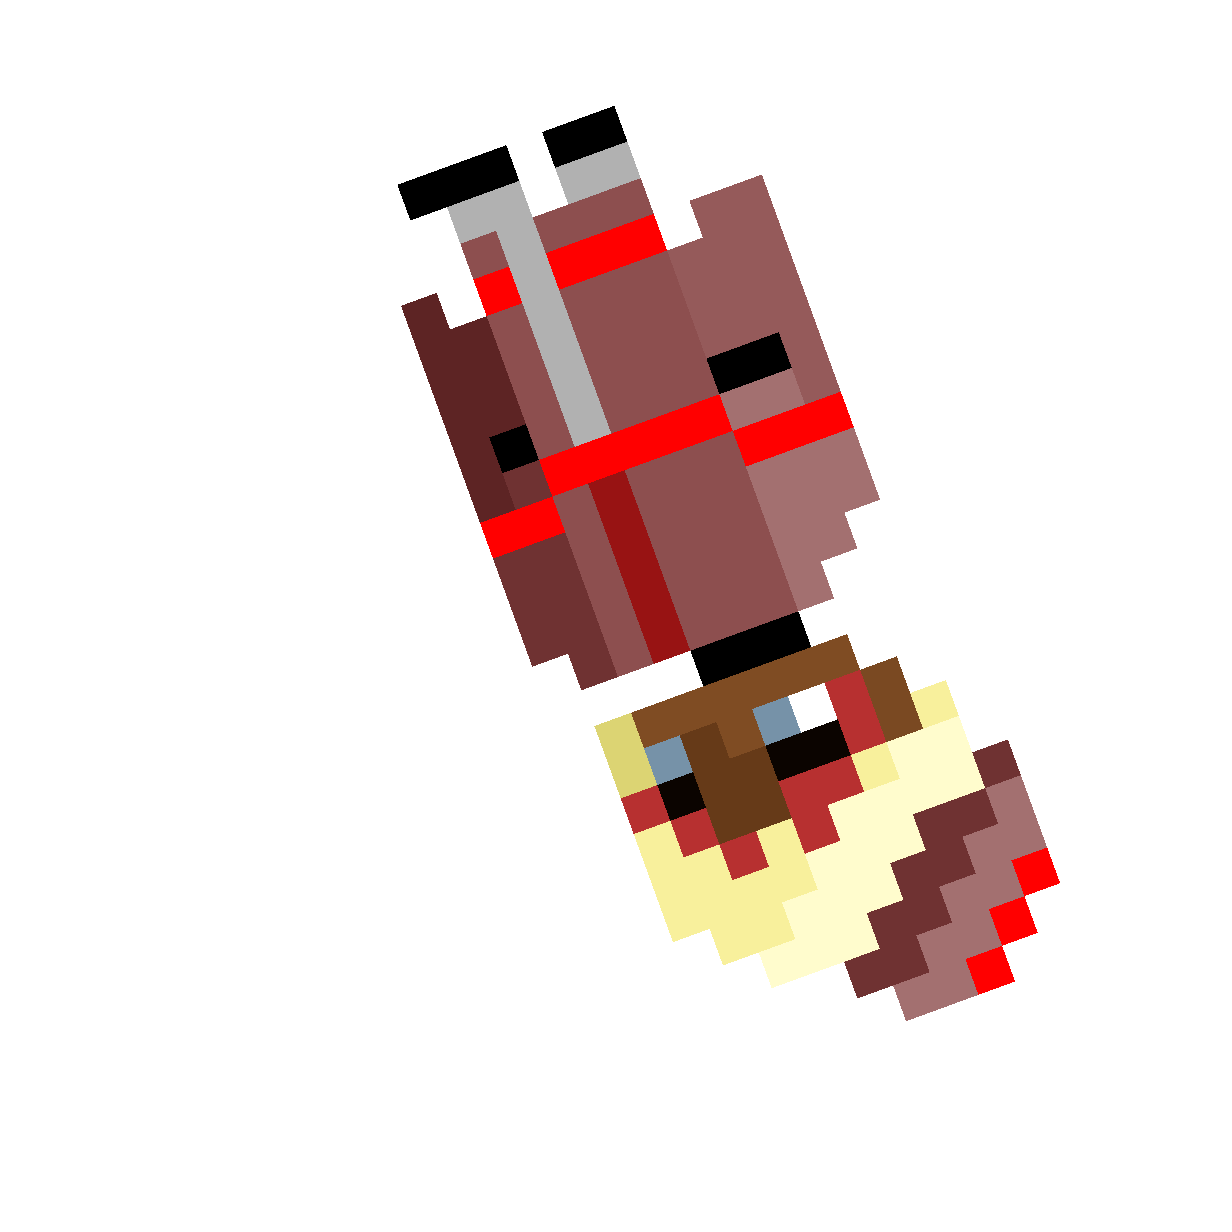
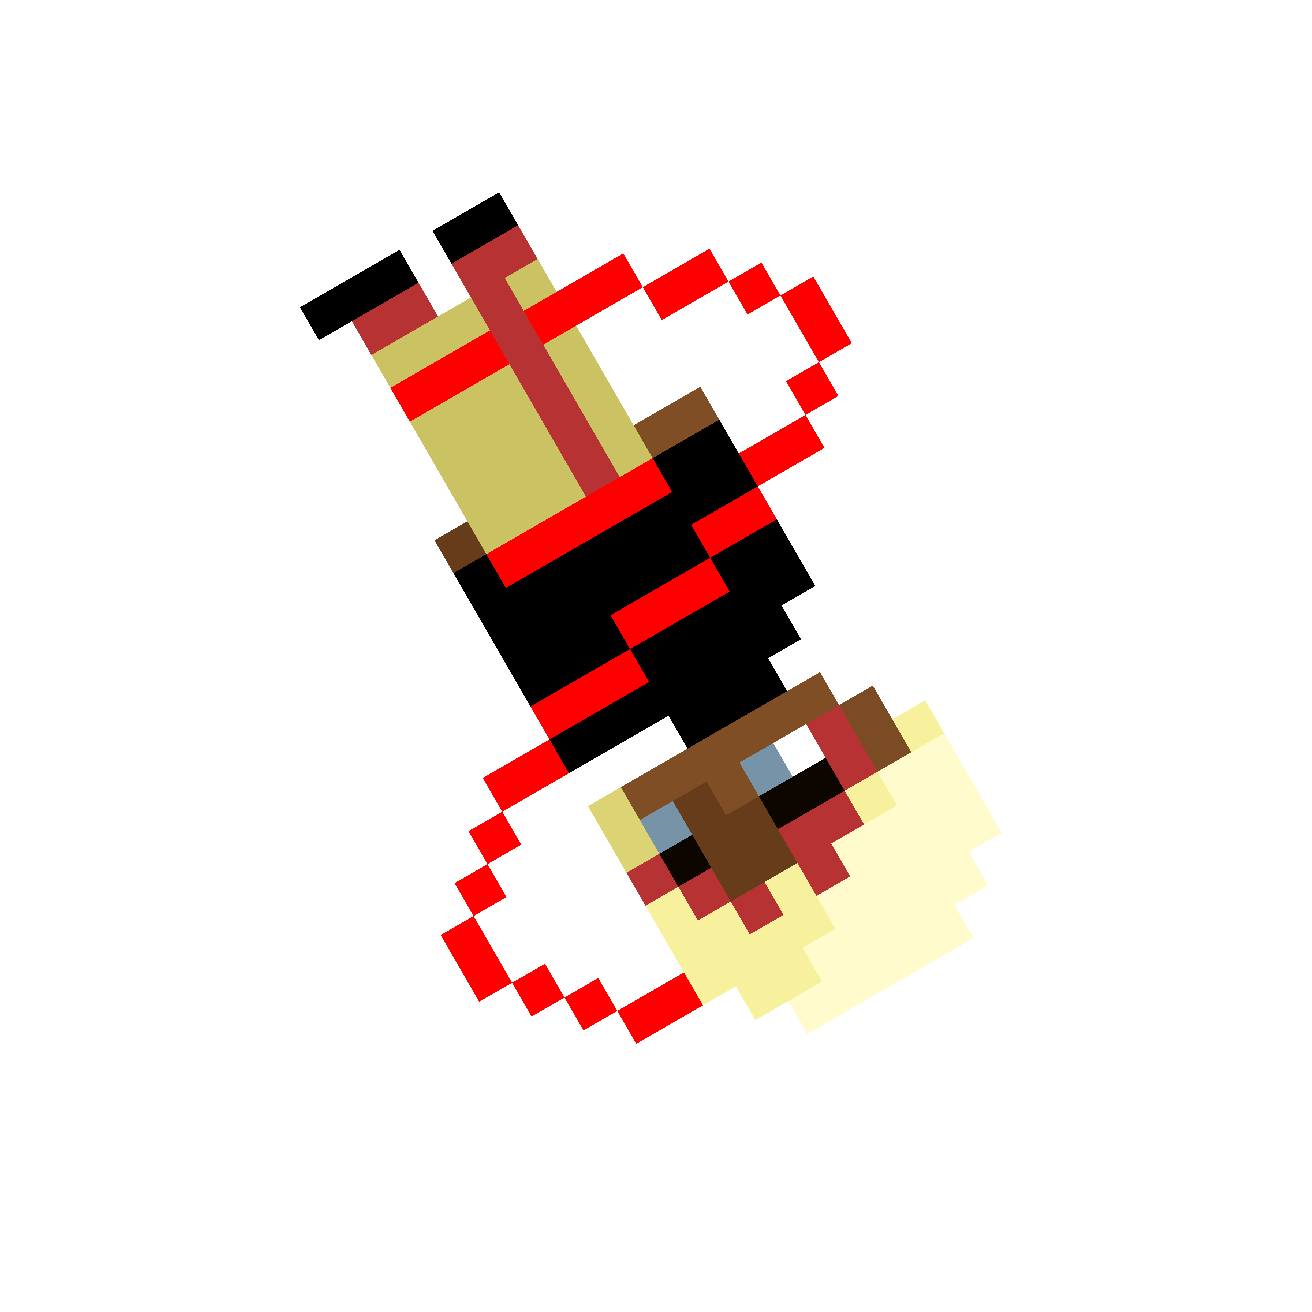
Fix name input and mirror

Changed region(s): [[0.2159, 0.0925, 0.8636, 0.8328]]

diff --git a/frontend/src/components/MirrorComponent.tsx b/frontend/src/components/MirrorComponent.tsx
@@ -1,6 +1,5 @@
 import React, {useState} from "react";
 import styled from "styled-components";
-import Parallelogram from "./styled/Parallelogram.tsx";
 import Triangle from "./styled/Triangle.tsx";
 import CharacterSelectComponent from "./CharacterSelectComponent.tsx";
 import {motion} from "framer-motion";
@@ -64,36 +63,16 @@ const MirrorComponent: React.FC<MirrorProps> = ({selectCharacter}) => {
                 animate={{ opacity: 1 }}
                 exit={{ opacity: 0, transition: { duration: 1 } }}
                 transition={{ duration: 0.3 }}>
-                    <Parallelogram
-                        top={-180} left={-75}
-                        width={125} height={90}
-                        skew={50} rotate={50}
-                        background={debug ? "red" : colors.primary}/>
-                    <Parallelogram
-                        top={-110} left={40}
-                        width={150} height={90}
-                        skew={50} rotate={110}
-                        background={debug ? "gray" : colors.secondary}/>
-                    <Parallelogram
-                        top={80} left={-60}
-                        width={150} height={100}
-                        skew={50} rotate={110}
-                        background={debug ? "white" : colors.primary}/>
-                    <Parallelogram
-                        top={-50} left={-260}
-                        width={200} height={80}
-                        skew={60} rotate={0}
-                        background={debug ? "blue" : colors.primary}/>
                     <Triangle
-                        top={-210} left={-150}
-                        bleft={50} bright={50}
-                        bbottom={250} rotate={126}
+                        top={-220} left={-240}
+                        bleft={120} bright={120}
+                        bbottom={300} rotate={126}
                         background={debug ? "green" : colors.secondary}
                         character='Doctor' selectCharacter={viewCharacter}/>
                     <Triangle
-                        top={-300} left={-180}
-                        bleft={75} bright={75}
-                        bbottom={150} rotate={155}
+                        top={-190} left={-50}
+                        bleft={40} bright={40}
+                        bbottom={170} rotate={165}
                         background={debug ? "yellow" : colors.primary}/>
                     <Triangle
                         top={0} left={-240}
@@ -101,30 +80,30 @@ const MirrorComponent: React.FC<MirrorProps> = ({selectCharacter}) => {
                         bbottom={200} rotate={63}
                         background={debug ? "purple" : colors.secondary}/>
                     <Triangle
-                        top={100} left={-175}
-                        bleft={50} bright={50}
-                        bbottom={300} rotate={24}
+                        top={50} left={-155}
+                        bleft={120} bright={120}
+                        bbottom={350} rotate={12}
                         background={debug ? "pink" : colors.primary}
                         character='Mechanic' selectCharacter={viewCharacter}/>
                     <Triangle
-                        top={280} left={-130}
-                        bleft={50} bright={50}
-                        bbottom={150} rotate={-10}
+                        top={190} left={50}
+                        bleft={50} bright={20}
+                        bbottom={150} rotate={-5}
                         background={debug ? "orange" : colors.secondary}/>
                     <Triangle
-                        top={200} left={20}
+                        top={50} left={20}
                         bleft={40} bright={40}
-                        bbottom={200} rotate={155}
+                        bbottom={200} rotate={185}
                         background={debug ? "cyan" : colors.secondary}/>
                     <Triangle
-                        top={20} left={75}
+                        top={-100} left={75}
                         bleft={60} bright={60}
-                        bbottom={175} rotate={-140}
+                        bbottom={175} rotate={-110}
                         background={debug ? "teal" : colors.secondary}/>
                     <Triangle
-                        top={-400} left={10}
-                        bleft={75} bright={75}
-                        bbottom={250} rotate={-160}
+                        top={-300} left={10}
+                        bleft={100} bright={100}
+                        bbottom={300} rotate={-150}
                         background={debug ? "fuchsia" : colors.primary}
                         character='Artist' selectCharacter={viewCharacter}
                     />

diff --git a/frontend/src/components/NameComponent.tsx b/frontend/src/components/NameComponent.tsx
@@ -3,6 +3,7 @@ import styled from "styled-components";
 import { motion } from "framer-motion";
 import { TextStyle } from "./styled/Text.tsx";
 import {colours} from "./styled/Constants.tsx";
+import {BackButton, SelectButton} from "./styled/Buttons.tsx";
 
 interface NameSelectProps {
     select: (name: string) => void;
@@ -85,15 +86,9 @@ const NameInput = styled.input<{ isValid: boolean }>`
   text-align: center;
 `;
 
-const SelectButton = styled(TextStyle)<{ disabled: boolean }>`
-  display: flex;
-  justify-content: center;
-  text-align: center;
-  border: 8px solid;
+const Select = styled(SelectButton)<{ disabled: boolean}>`
   width: 100%;
-  font-size: 20px;
   border-image: url("../assets/ui/button-submit.png") 6 fill repeat;
-  margin-bottom: 10px;
   background-color: ${props => (props.disabled ? 'grey' : 'initial')};
   pointer-events: ${props => (props.disabled ? 'none' : 'auto')};
   opacity: ${props => (props.disabled ? 0.5 : 1)};
@@ -103,30 +98,17 @@ const SelectButton = styled(TextStyle)<{ disabled: boolean }>`
   }
 `;
 
-
-const SkipButton = styled(TextStyle)`
-  display: flex;
-  justify-content: center;
-  text-align: center;
-  border: 6px solid;
-  width: 100%;
-  border-image: url("../assets/ui/button-cancel.png") 6 fill repeat;
-
-  &:hover {
-    cursor: pointer;
-  }
-`
-
 const NameSelectComponent: React.FC<NameSelectProps> = ({ select, skip }) => {
     const [name, setName] = useState("");
-    const isValid = name.length <= 20;
+    const invalid = name.length <= 0;
+    const disabled = name.length > 20;
 
     const handleInputChange = (e: React.ChangeEvent<HTMLInputElement>) => {
         setName(e.target.value);
     };
 
     const handleSubmit = () => {
-        if (isValid) {
+        if (!invalid && !disabled) {
             select(name);
         }
     };
@@ -142,9 +124,9 @@ const NameSelectComponent: React.FC<NameSelectProps> = ({ select, skip }) => {
                     transition={{ duration: 0.2 }}
                 >
                     <Title>Choose a Name</Title>
-                    <NameInput type='text' value={name} onChange={handleInputChange} isValid={isValid} />
-                    <SelectButton onClick={handleSubmit} disabled={!isValid}>Submit</SelectButton>
-                    <SkipButton onClick={skip}>Skip</SkipButton>
+                    <NameInput type='text' value={name} onChange={handleInputChange} isValid={!disabled} />
+                    <Select onClick={handleSubmit} disabled={invalid || disabled}>Submit</Select>
+                    <BackButton onClick={skip}>Skip</BackButton>
                 </Background>
             </Overlay>
         </>

diff --git a/frontend/src/components/CharacterSelectComponent.tsx b/frontend/src/components/CharacterSelectComponent.tsx
@@ -4,6 +4,7 @@ import {motion} from "framer-motion";
 import {characters} from "../setup/Character.ts";
 import {TextStyle} from "./styled/Text.tsx";
 import {colours} from "./styled/Constants.tsx";
+import {BackButton, SelectButton} from "./styled/Buttons.tsx";
 
 interface CharacterSelectProps {
     character: string,
@@ -67,34 +68,6 @@ const Background = styled(motion.div)`
     border-image: url("../assets/ui/dialogue-box.png") 15 15 15 15 fill repeat;
   }
 `;
-
-const SelectButton = styled(TextStyle)`
-  display: flex;
-  justify-content: center;
-  text-align: center;
-  border: 8px solid;
-  width: 50%;
-  height: 10%;
-  font-size: 20px;
-  border-image: url("../assets/ui/button-submit.png") 6 fill repeat;
-  margin-bottom: 10px;
-  &:hover {
-    cursor: pointer;
-  }
-`
-
-const BackButton = styled(TextStyle)`
-  display: flex;
-  justify-content: center;
-  text-align: center;
-  border: 6px solid;
-  width: 25%;
-  border-image: url("../assets/ui/button-cancel.png") 6 fill repeat;
-  
-  &:hover {
-    cursor: pointer;
-  }
-`
 
 const CharacterContainer = styled(motion.div)`
   width: 100%;

diff --git a/frontend/src/components/styled/Buttons.tsx b/frontend/src/components/styled/Buttons.tsx
@@ -1,0 +1,37 @@
+import styled from "styled-components";
+import {TextStyle} from "./Text.tsx";
+
+
+export const SelectButton = styled(TextStyle)`
+  display: flex;
+  justify-content: center;
+  text-align: center;
+  border: 8px solid;
+  width: 100%;
+  height: 10%;
+  font-size: 20px;
+  border-image: url("../../assets/ui/button-submit.png") 6 fill repeat;
+  font-weight: 800;
+  color: white;
+  text-shadow: 0 0 1px #000000;
+  margin-bottom: 10px;
+  &:hover {
+    cursor: pointer;
+  }
+`
+
+export const BackButton = styled(TextStyle)`
+  display: flex;
+  justify-content: center;
+  text-align: center;
+  border: 6px solid;
+  width: 100%;
+  font-weight: 800;
+  color: white;
+  text-shadow: 0 0 1px #000000;
+  border-image: url("../../assets/ui/button-secondary.png") 6 fill repeat;
+
+  &:hover {
+    cursor: pointer;
+  }
+`

diff --git a/frontend/src/game/Game.tsx b/frontend/src/game/Game.tsx
@@ -15,8 +15,8 @@ const Game = forwardRef<Universe, GameProps>((_props, ref) => {
     const universeScene: Universe = new Universe();
     const config: Phaser.Types.Core.GameConfig = {
       type: Phaser.AUTO,
-      width: 800,
-      height: 600,
+      width: 1000,
+      height: 1000,
       parent: 'game-container',
       backgroundColor: '#1f1137',
       scale: {

diff --git a/frontend/src/components/styled/Constants.tsx b/frontend/src/components/styled/Constants.tsx
@@ -7,8 +7,8 @@ type Color = {
 }
 export const colours: Color = {
     primary: '#43FEEF',
-    secondary: '#FF31DF',
-    submit: 'green',
+    secondary: '#FF0084',
+    submit: '#71FF00',
     cancel: '#D80B0C',
     blocker: '#2A213899',
 }

diff --git a/scripts/rotate.py b/scripts/rotate.py
@@ -13,6 +13,6 @@ def rotate_image(input_image_path, output_image_path, degrees):
     print(f"Image rotated by {degrees} degrees and saved to {output_image_path}")
 
 # Example usage
-rotate_image('frontend/src/assets/characters/artist_fullbody.png', 'frontend/src/assets/characters/artist_rotated.png', 200)
+rotate_image('frontend/src/assets/characters/artist_fullbody.png', 'frontend/src/assets/characters/artist_rotated.png', -150)
 rotate_image('frontend/src/assets/characters/doctor_fullbody.png', 'frontend/src/assets/characters/doctor_rotated.png', 126)
-rotate_image('frontend/src/assets/characters/mechanic_fullbody.png', 'frontend/src/assets/characters/mechanic_rotated.png', 24)
+rotate_image('frontend/src/assets/characters/mechanic_fullbody.png', 'frontend/src/assets/characters/mechanic_rotated.png', 12)
